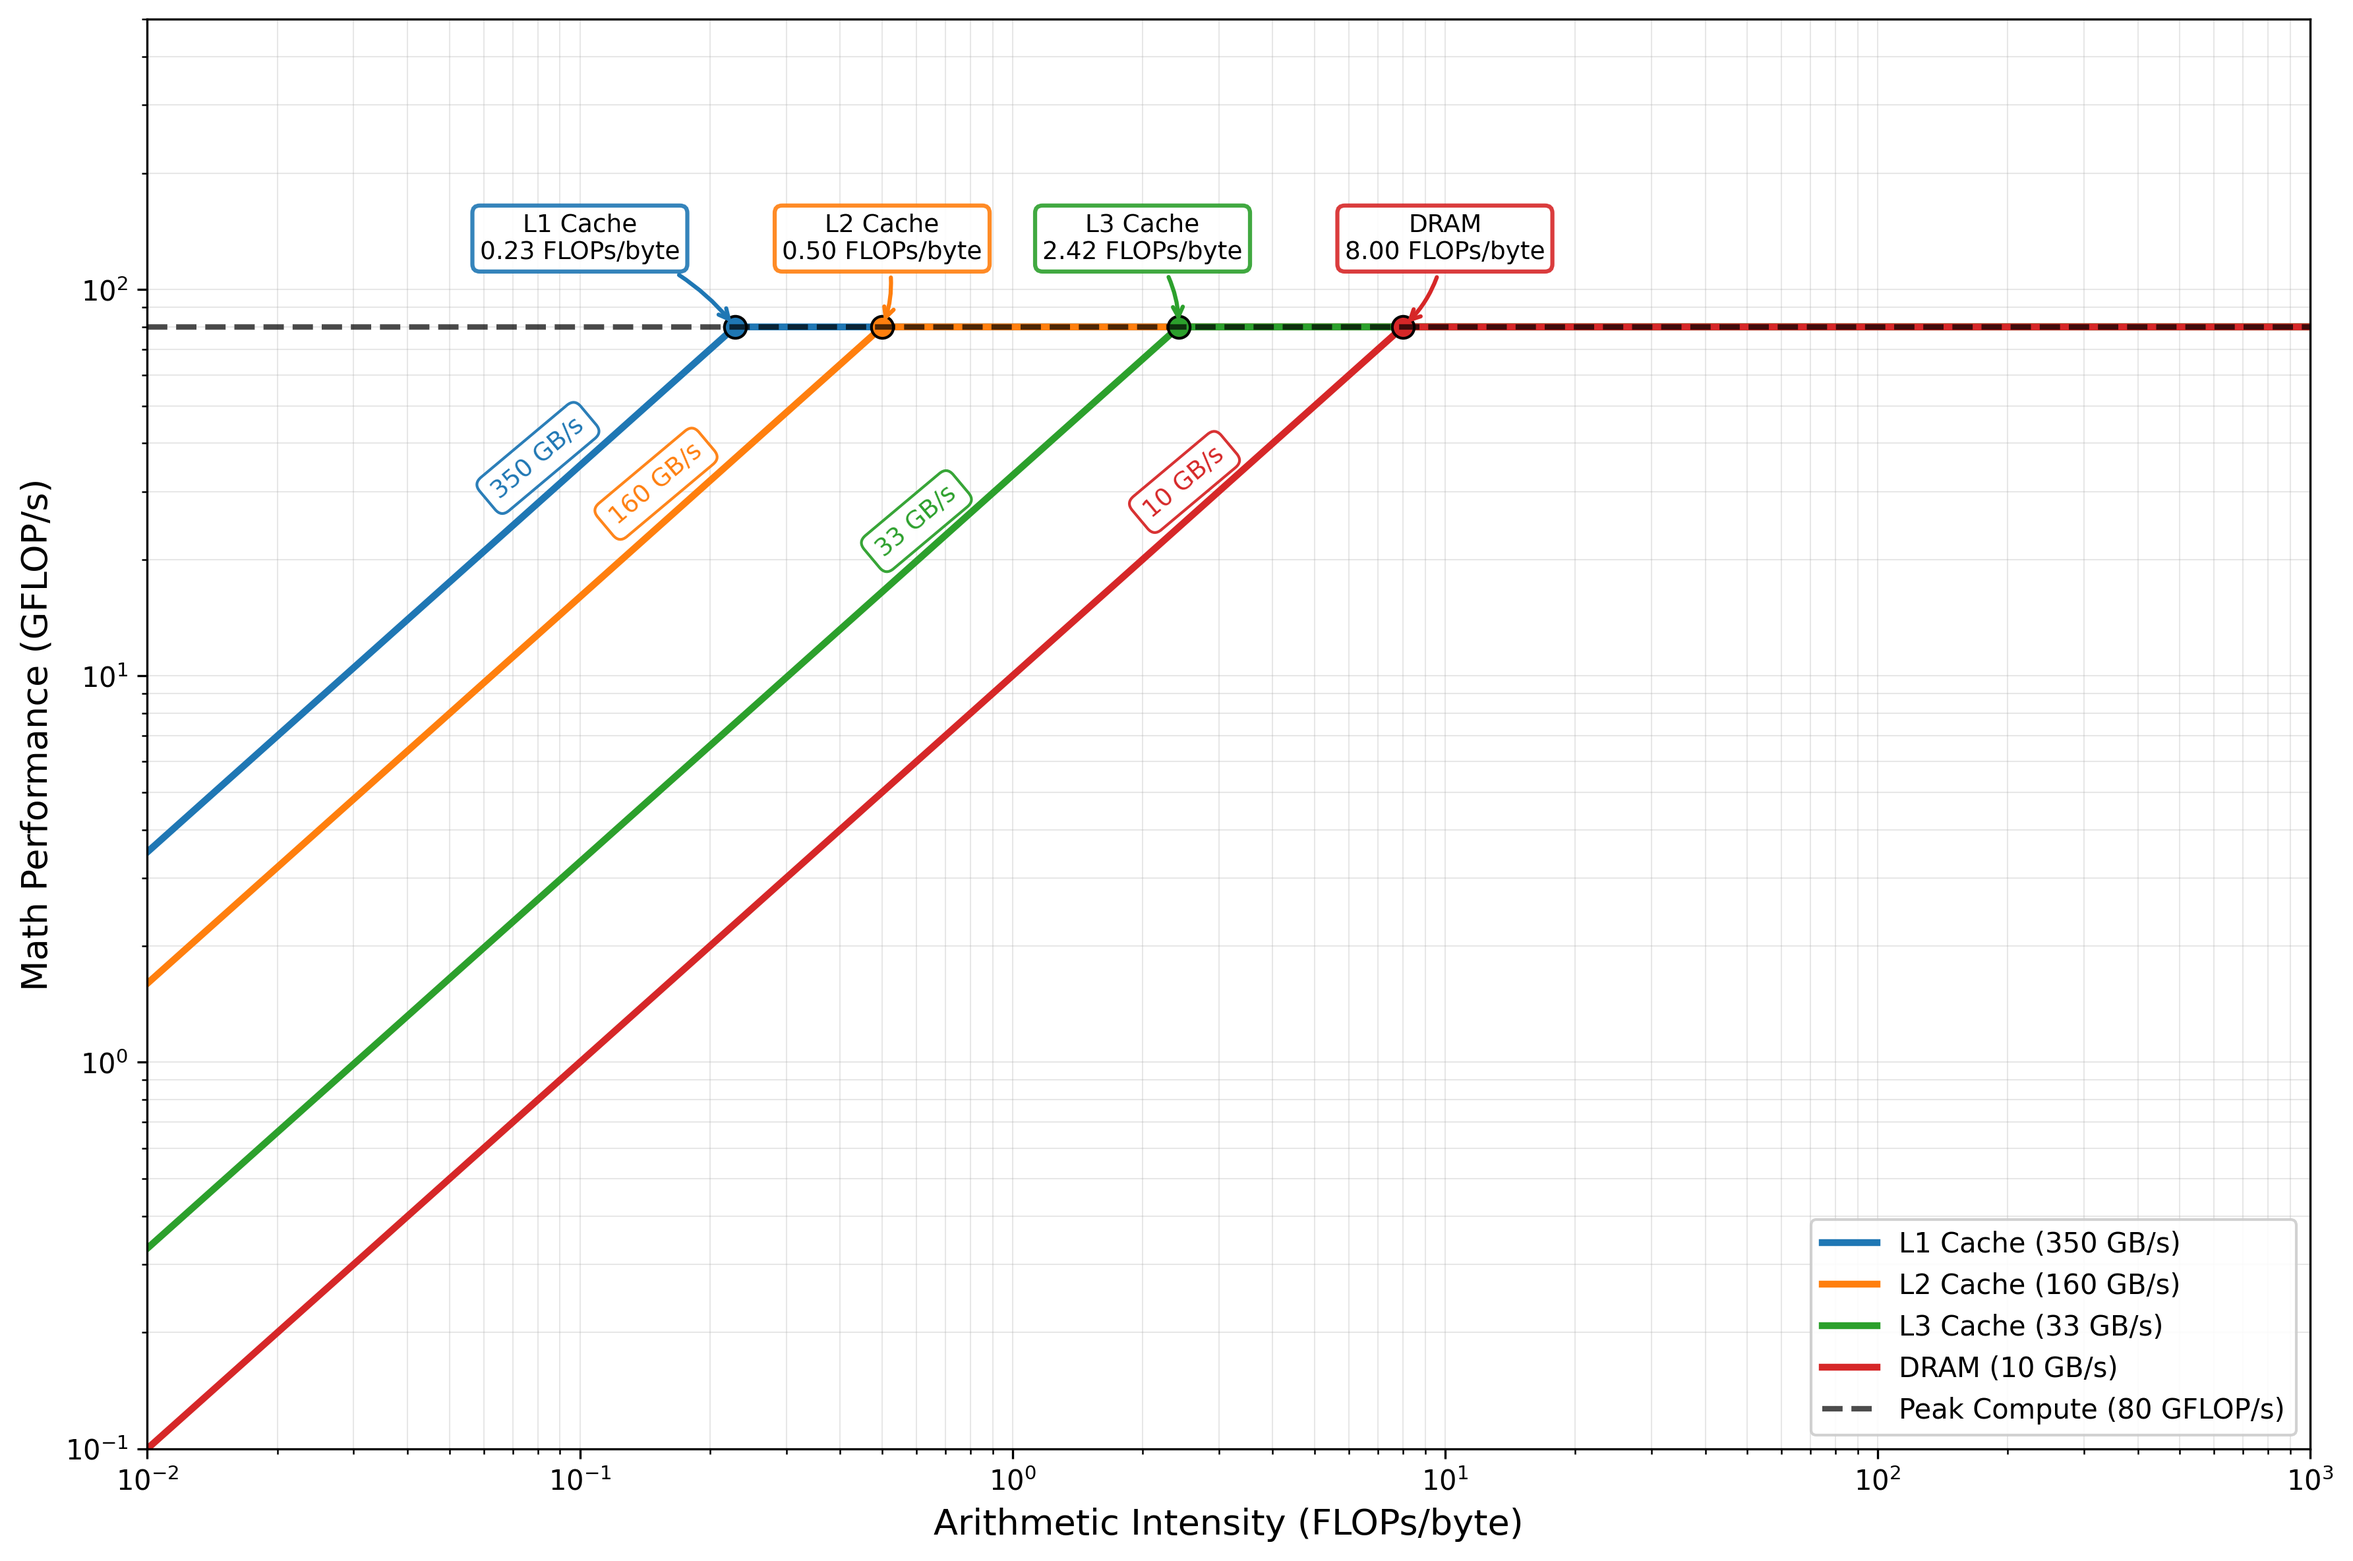
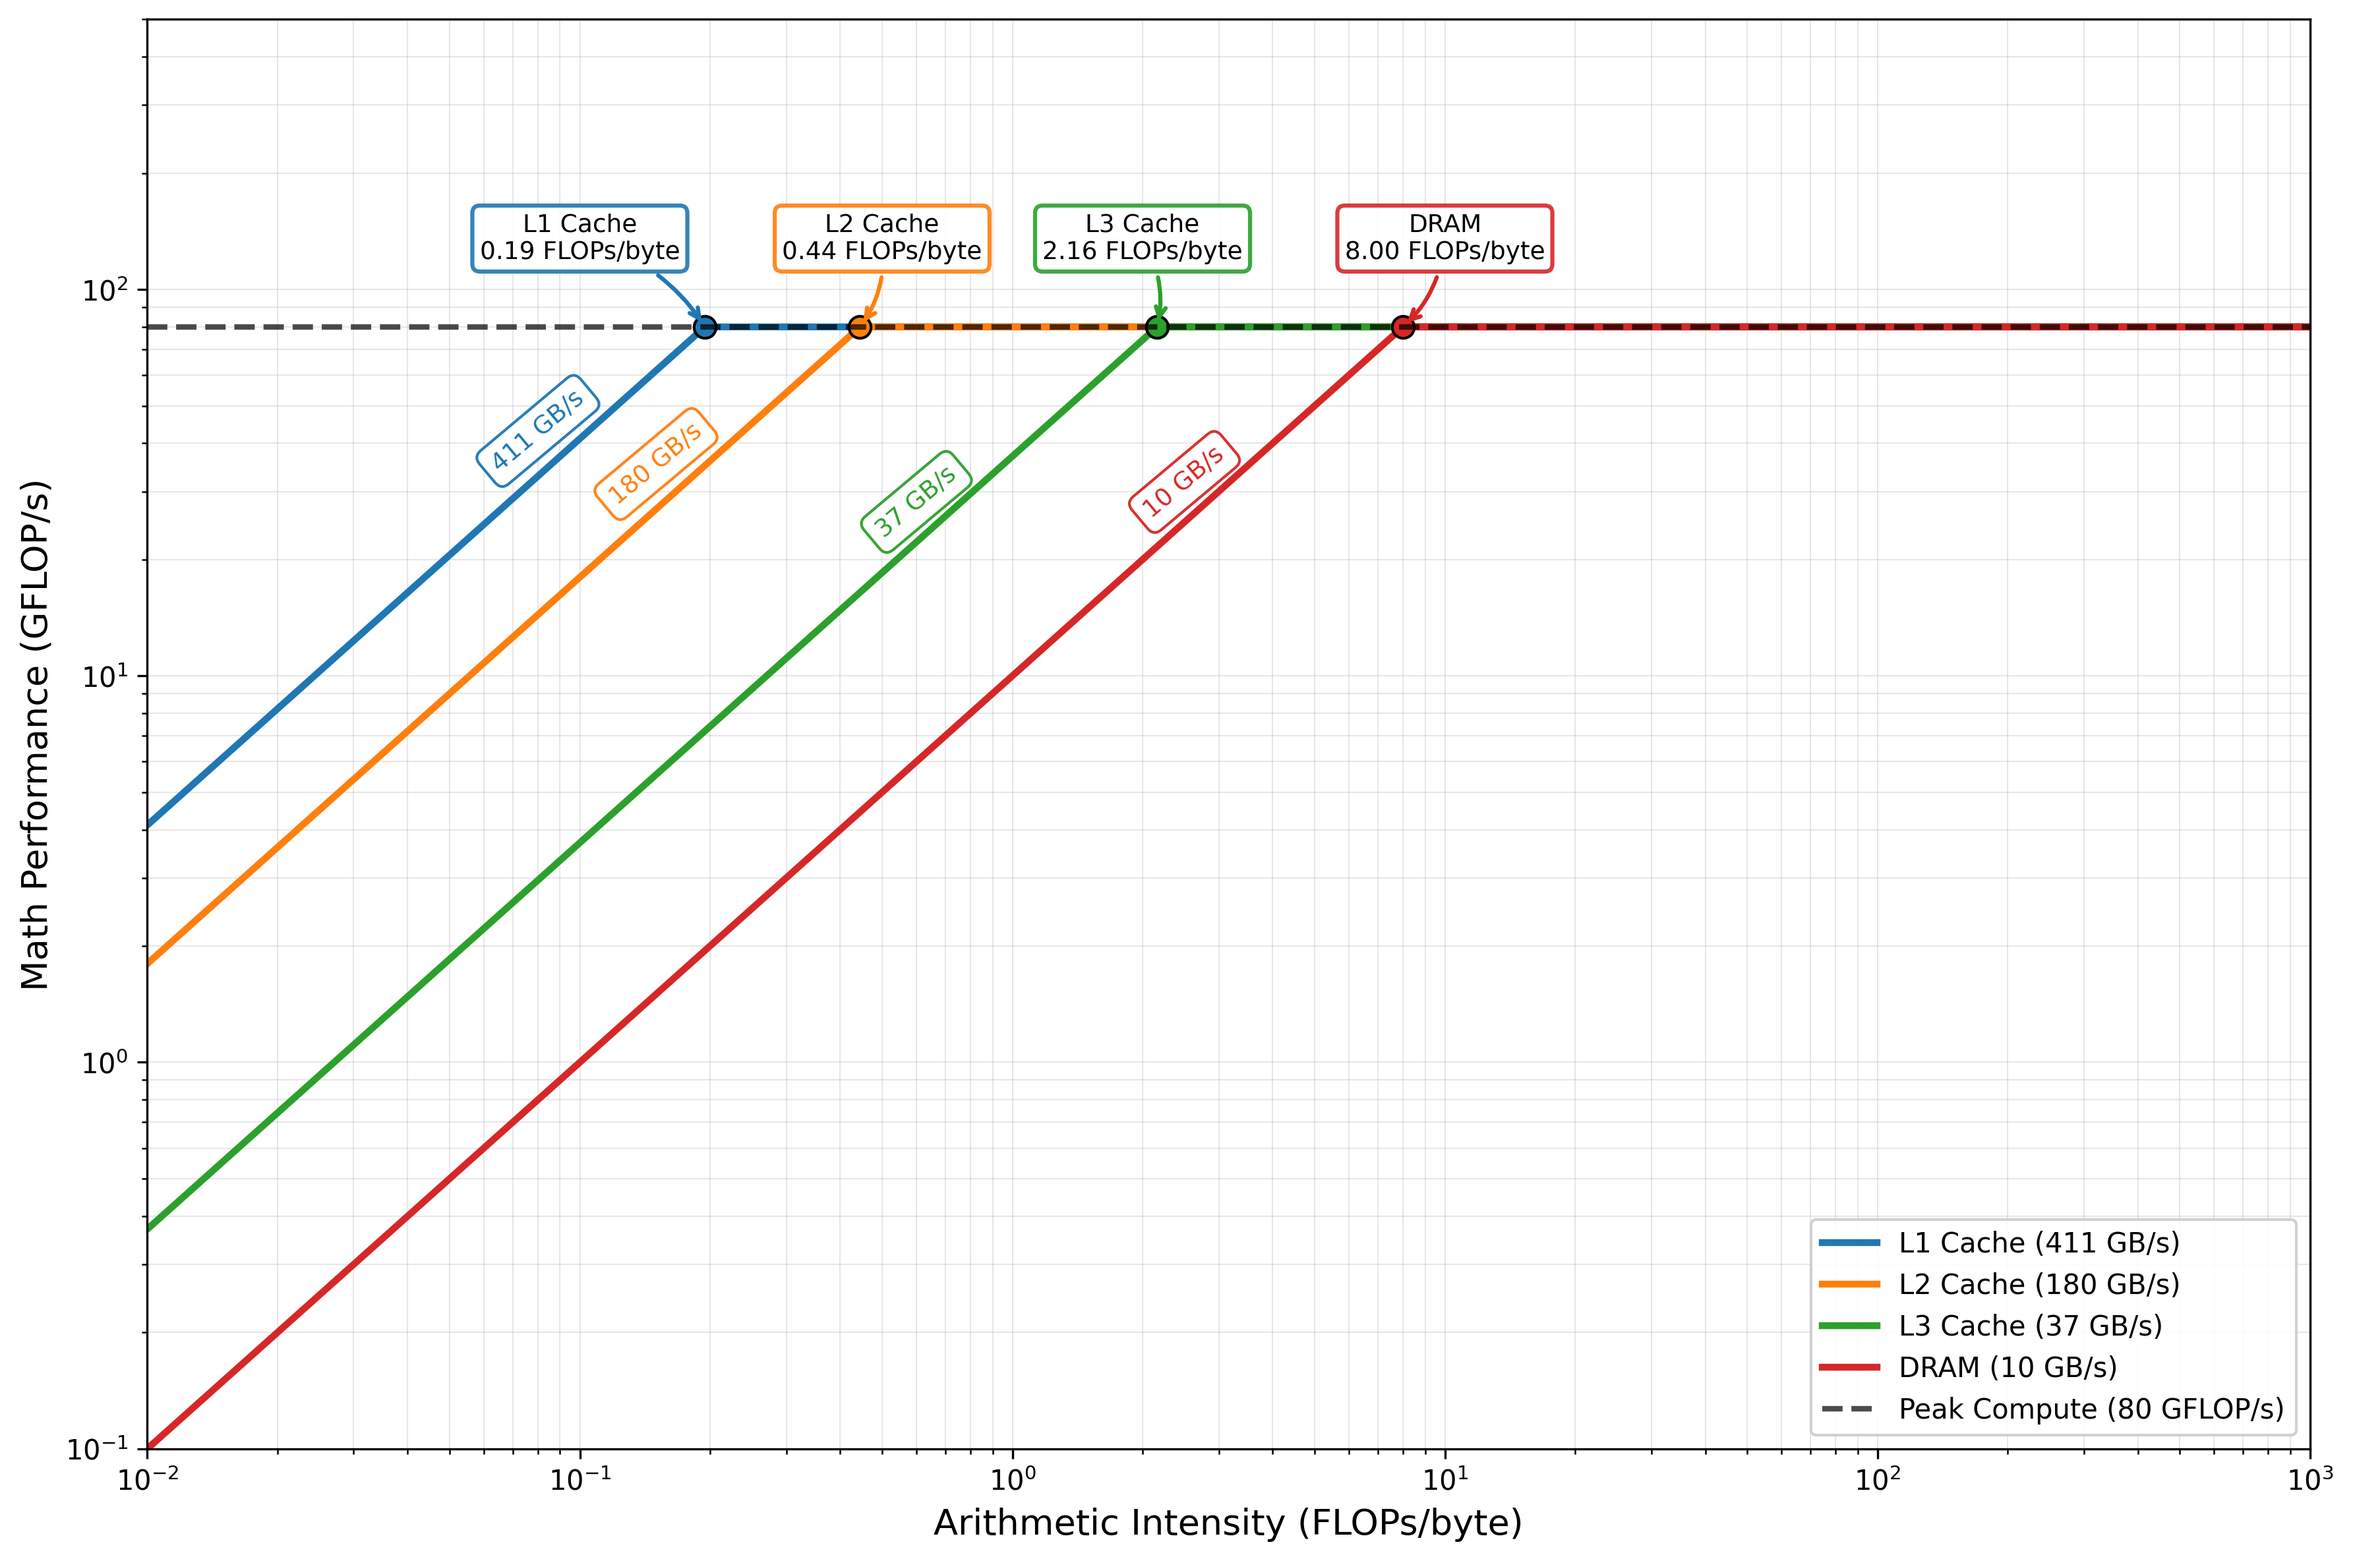
Update

diff --git a/content/posts/sgemm/index.md b/content/posts/sgemm/index.md
@@ -1,7 +1,7 @@
 ---
 title: Optimizing a GEMM from first principles
 date: 2025-07-14
-summary: Within 92% of Intel MKL.
+summary: Within 92% of Intel MKL (single-threaded).
 draft: true
 tags: ["sgemm", "avx512", "matmul"]
 ---
@@ -10,13 +10,9 @@ tags: ["sgemm", "avx512", "matmul"]
 Work-in-progress. Code available [here](https://github.com/masterskepticista/sgemm.c).
 {{< /alert >}}
 
-{{< figure
-    src="/posts/sgemm/pointwise.png"
-    alt="Pointwise GEMM Operation"
->}}
 {{<katex>}}
 
-This is a worklog on optimizing a single-precision generalized matrix-multiply (GEMM) kernel in C to land close to Intel MKL-CBLAS performance. 
+This is a worklog on optimizing a single-precision generalized matrix-multiply (GEMM) kernel in C to land close to Intel MKL performance. In the process of learning this for myself, I found the following sources really helpful. Building on the following, this article aims to approach the design decisions of GEMM at the level of a chip ISA. 
 
 * [Algorithmica: Matrix Multiplication](https://en.algorithmica.org/hpc/algorithms/matmul/)
 * [Advanced Matrix Multiplication on Multi-Core Processors](https://salykova.github.io/gemm-cpu)
@@ -25,6 +21,11 @@ This is a worklog on optimizing a single-precision generalized matrix-multiply (
 ## Introduction
 
 Let us start by describing the pointwise operation:
+
+{{< figure
+    src="/posts/sgemm/pointwise.png"
+    alt="Pointwise GEMM Operation"
+>}}
 
 ```c
 void gemm_naive(float *C, 
@@ -45,19 +46,19 @@ void gemm_naive(float *C,
 }
 ```
 
-It takes ~1.2 seconds for this kernel to multiply two 1000-size square matrices. This is absurdly slow for a CPU of this day and age. Before we start optimizing it, we need to take stock of where we are and what the prize is.
+It takes ~1.2 seconds for this kernel to multiply two 1000-size square matrices. This is absurdly slow for a CPU of this day and age. The Intel-MKL library, in comparison, finishes this operation in 13ms, about 100x faster. Before we start optimizing this naive kernel, lets take stock of how to reason about the performance of a kernel.
 
 ## Roofline Analysis
 
 System specs:
 * Intel Xeon [Sapphire Rapids] 8488C @ 2.5GHz, 2 vCPUs
   * Cache L1d: 48 KB/core | L2: 2 MB/core | L3: 105 MB/shared
-  * ISA support: AVX | AVX-2 | AVX-512
+  * ISA support: AVX-2 | AVX-512
   * Microarchitecture: Golden Cove[^glc]
 * 4GB Memory, 10GB/s STREAM bandwidth (measured using `mbw`)
 * Ubuntu 24.04 LTS
 
-Performance of Generalized Matrix Multiply (GEMM) 'kernels' will be measured in FLOP/s (floating point operations per second); common choice in many ML/HPC workloads. How many operations? GEMM involves `K` dot products to furnish each element of result matrix `C`.
+We will measure the performance of Generalized Matrix Multiply (GEMM) kernels in GFLOP/s (giga floating point operations per second). How many operations? GEMM involves `K` dot products across each row and column of `A` and `B` respectively to furnish each element of result matrix `C`.
 
 $$
 A^{M \times K} \times B^{K \times N} = 2 \cdot M \cdot N \cdot (K - 1) \approx 2 \cdot MNK
@@ -85,14 +86,12 @@ $$
 \gamma = \frac{\text{compute BW}}{\text{memory BW}} = 8 \text{ FLOPs/byte }
 $$
 
-In practice, the ridge point depends on cache reuse, branching, and other instruction overheads. For instance, if we manage to keep the entire working set of a GEMM operation within cache boundary (which we will see soon with a cache-blocked GEMM kernel), the arithmetic intensity necessary to saturate compute units is quite lower. Here is a hierarchical roofline model across the entire memory hierarchy and the corresponding ridge points.
-
 {{< figure
     src="/posts/sgemm/hierarchy_roofline.png"
     alt="Memory Hierarchy Roofline Model"
 >}}
 
-The focus of this worklog is on single-threaded operations only.
+In practice, the ridge point depends on cache reuse, branching, and other instruction overheads. For instance, if we manage to keep the entire working set of a GEMM operation within cache boundary (which we will see soon with a cache-blocked GEMM kernel), the arithmetic intensity necessary to saturate compute units is quite lower. Here is a roofline model of the entire memory hierarchy and the corresponding ridge points. The focus of this worklog is on single-threaded operations only.
 
 ## Memory Layout
 As mentioned earlier, our arrays store floats in a row-major order, i.e., elements of a row are laid out consecutively. CPUs fetch contiguous blocks of memory (called a cache line) in the hope that consecutive memory elements will be needed for further processing. If a computation does not utilize all items in a cache line optimally, CPU cycles are wasted.
@@ -351,7 +350,7 @@ for m in MR:
     store(c[m][n], C[m][n])
 ```
 
-### Optimal Tile Sizes
+### Optimal Tile Size
 When using `YMM` vector registers, we have a limit of 16. The scalars we load from \\(B\\) of size \\(\text{NR}\\) must be a multiple of 8 to fit in one register. Hence \\(B\\) vector will use \\(\text{NR}/8\\) registers. Each scalar from \\(A\\) uses 1 register: the scalar is broadcasted to the entire vector. The \\(C\\) accumulator fully resides in registers, requiring \\(\text{MR} \times \text{NR}/8\\) registers. Therefore, we need to satisfy the inequality:
 
 $$ \text{MR} \cdot \frac{\text{NR}}{8} + \frac{\text{NR}}{8} + 1 \leq 16 $$
@@ -371,6 +370,11 @@ $$
 \hline
 \end{array}
 $$
+
+
+Only the \\(6 \times 16\\) and \\(14 \times 8\\) size micro-kernels are capable of saturating the core within L3 boundary (recall from the roofline plot, \\(2.16 \text{ FLOPs/byte}\\)), so we can discard other candidates. Of the two that remain, \\(14 \times 8\\) tile actually ends up being load bound. The [disassembly](https://godbolt.org/z/YMoEExxv8) shows a memory broadcast on every FMA; compilers tend to generate memory-source FMAs instead of separating the load and broadcast into registers. As a result, even though the total number of bytes accessed is similar, each scalar requires its own load op during the FMA. This leads to roughly 15 load instructions per iteration (14 scalar loads plus one 256-bit vector load).
+
+By contrast, the \\(6 \times 16\\) micro-kernel performs six scalar loads and two 256-bit vector loads, for a total of eight loads. This produces a much better balance between load throughput and FMA issue rate, allowing the kernel to approach core saturation. This explains the popular choice of \\(6 \times 16\\) in various BLAS libraries using AVX intrinsics.
 
 
 [^sse]: Streaming SIMD Extensions debuted with Pentium-III.
